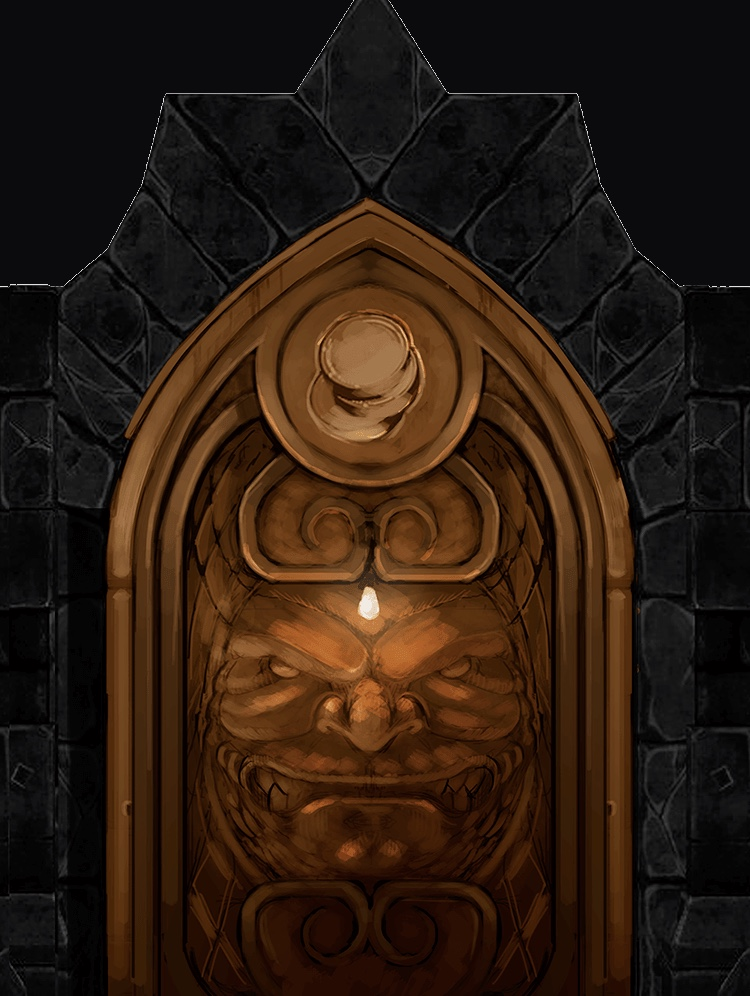
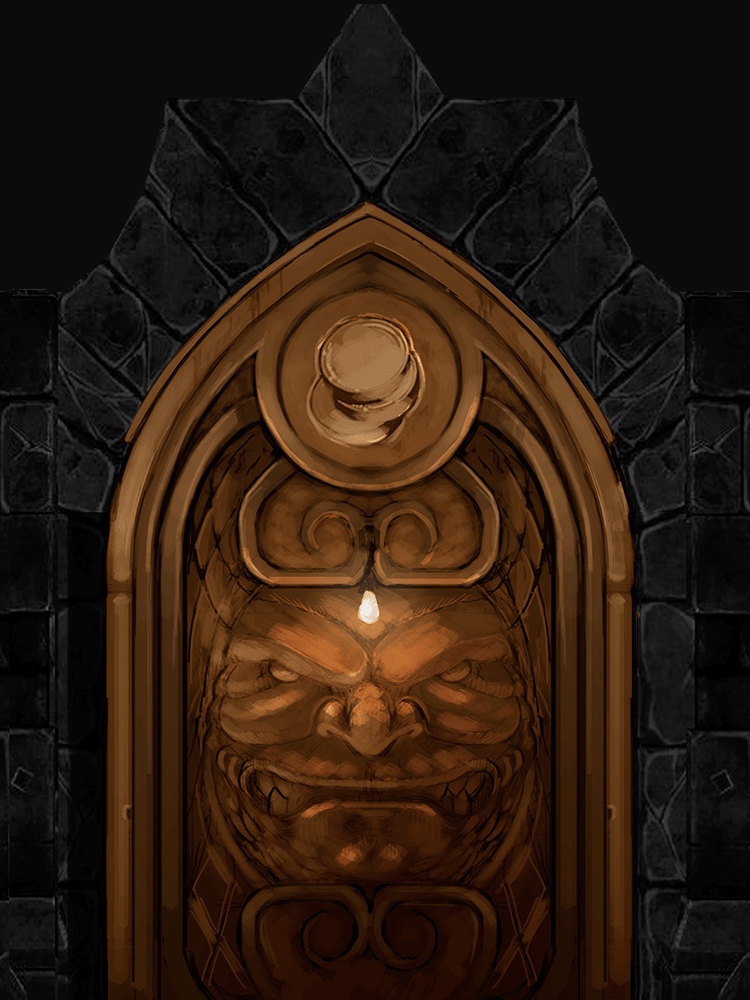
adds images for other doors

diff --git a/source/css/app.css b/source/css/app.css
@@ -148,15 +148,15 @@ body {
 }
 
 .popup__content_level_0 {
-    /* Можно поставить какую-нибудь свою картинку двери на бек */
+    background: #000 url(../img/door_level_0.jpg) no-repeat center;
 }
 
 .popup__content_level_1 {
-    /* Можно поставить какую-нибудь свою картинку двери на бек */
+    background: #000 url(../img/door_level_2jpg) no-repeat center;
 }
 
 .popup__content_level_2 {
-    /* Можно поставить какую-нибудь свою картинку двери на бек */
+    background: #000 url(../img/door_level_3.jpg) no-repeat center;
 }
 .popup__content_level_3 {
     background-image: url(../img/door__box.png);
